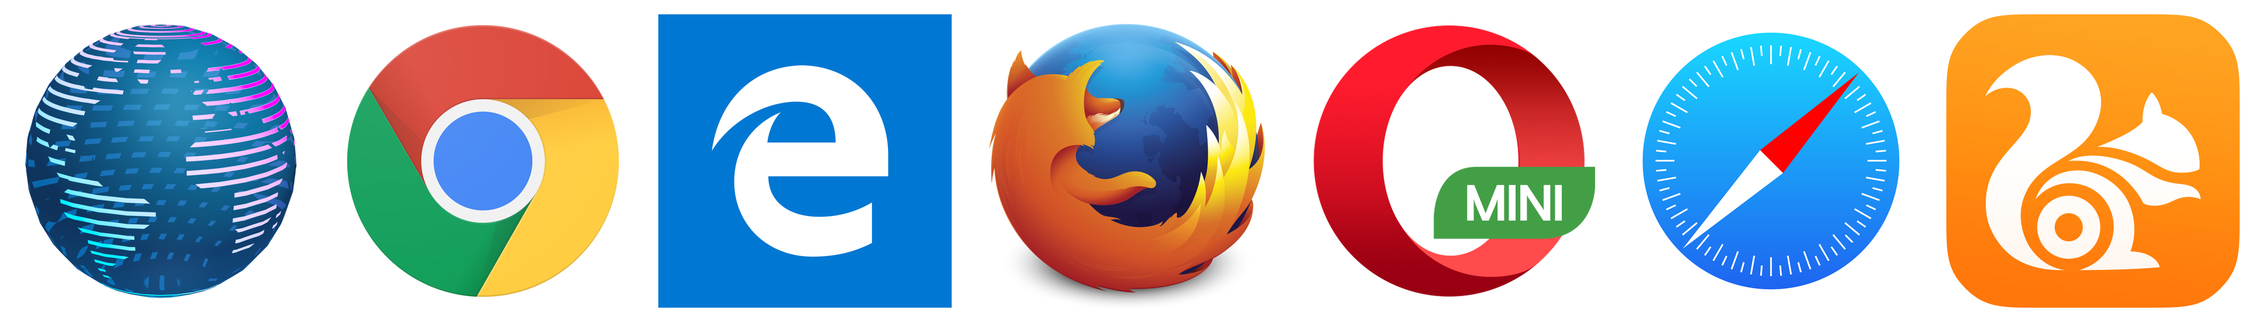
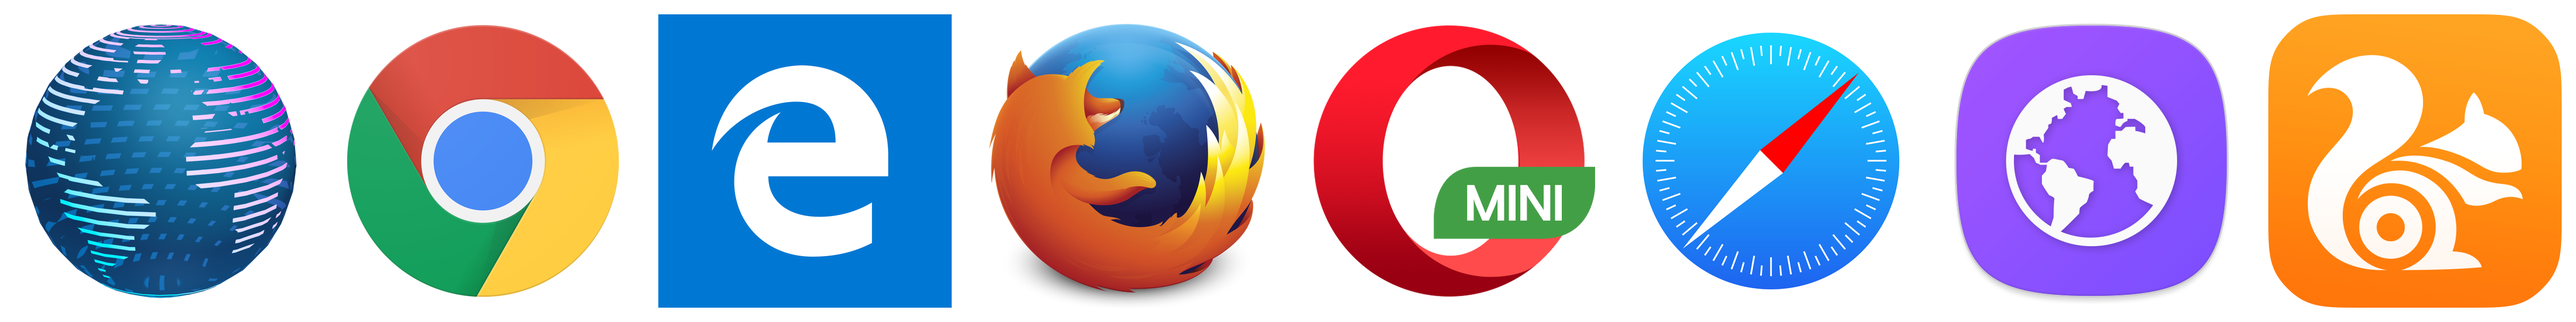
Add `Samsung Internet` in `main-mobile.png`
According to some recent¹ statistics, `Samsung Internet` has gained
significant market share among mobile browsers, currently being one
of the most used out there.

- - - - - - - - - - - - - - - - - - - - - - - - - - - - - - - - - - -

¹ https://gs.statcounter.com/#mobile_browser-ww-monthly-201506-201605
  (https://cloud.githubusercontent.com/assets/1223565/16171771/cb561742-3580-11e6-9da5-5621f31cd784.png)

Close alrra/browser-logos#85

diff --git a/CHANGELOG.md b/CHANGELOG.md
@@ -1,5 +1,6 @@
 ### HEAD
 
+* Add `Samsung Internet` in `main-mobile.png`.
 * Further losslessly optimize images.
 
 ### 28.2.1 (June 12, 2016)
